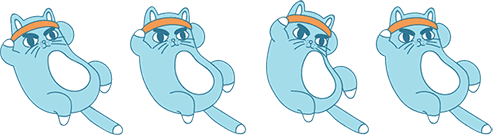
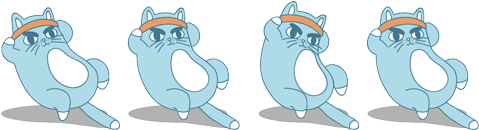
update cat sprint

Changed region(s): [[0.0, 0.0308, 0.5261, 1.0], [0.5261, 0.0, 1.0, 1.0], [0.5846, 0.5538, 0.6138, 0.5846]]

diff --git a/src/states/Athletics/constant.js b/src/states/Athletics/constant.js
@@ -21,8 +21,8 @@ module.exports = {
     heightRatio: 8
   },
   catSprite: {
-    width: 493,
-    height: 135,
+    width: 479,
+    height: 130,
     nbSprites: 4,
     spriteSpeed: 17,
     speed: -1,
@@ -39,7 +39,7 @@ module.exports = {
   },
   duckSprite: {
     width: 265,
-    height: 125,
+    height: 127,
     nbSprites: 2,
     spriteSpeed: 17,
     speed: -1,
